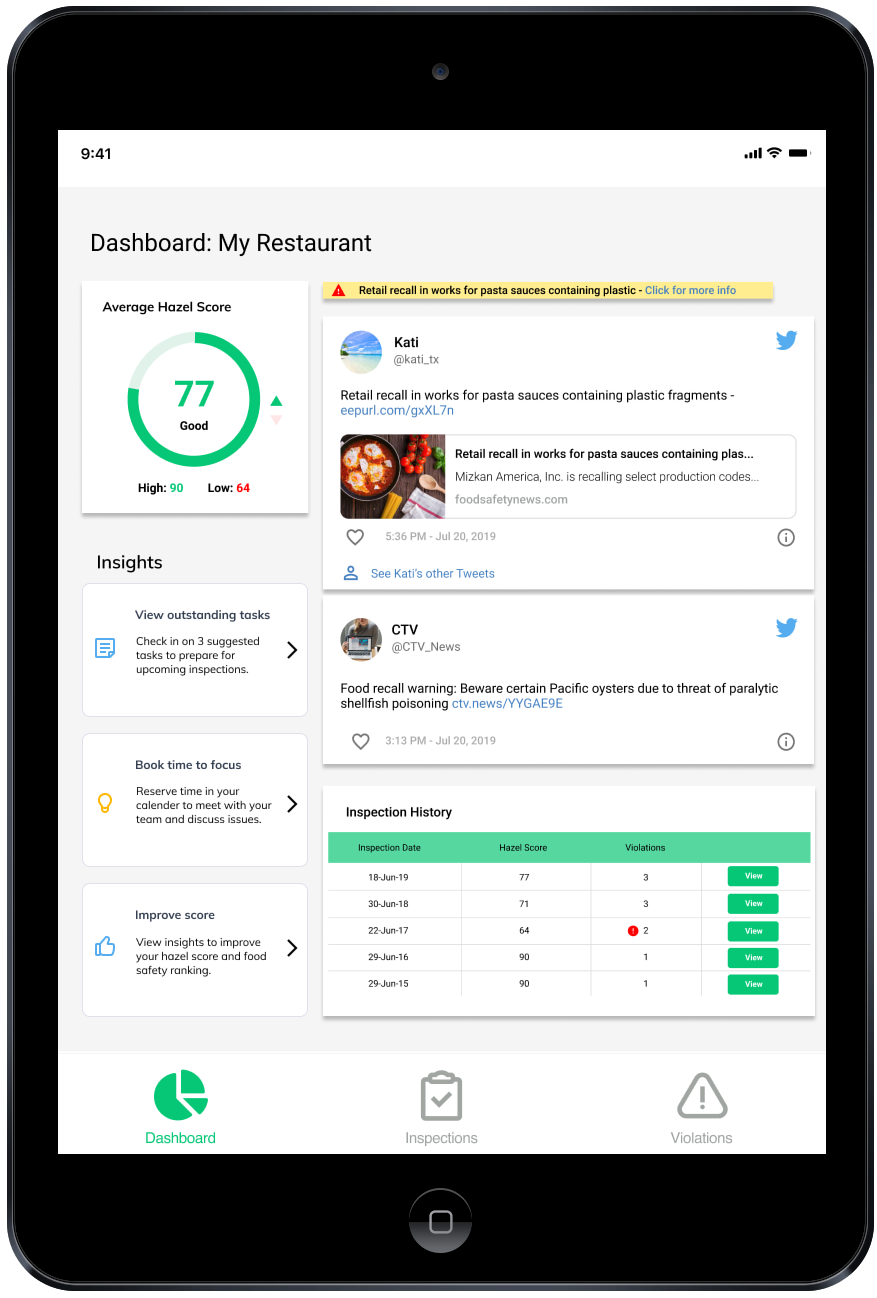
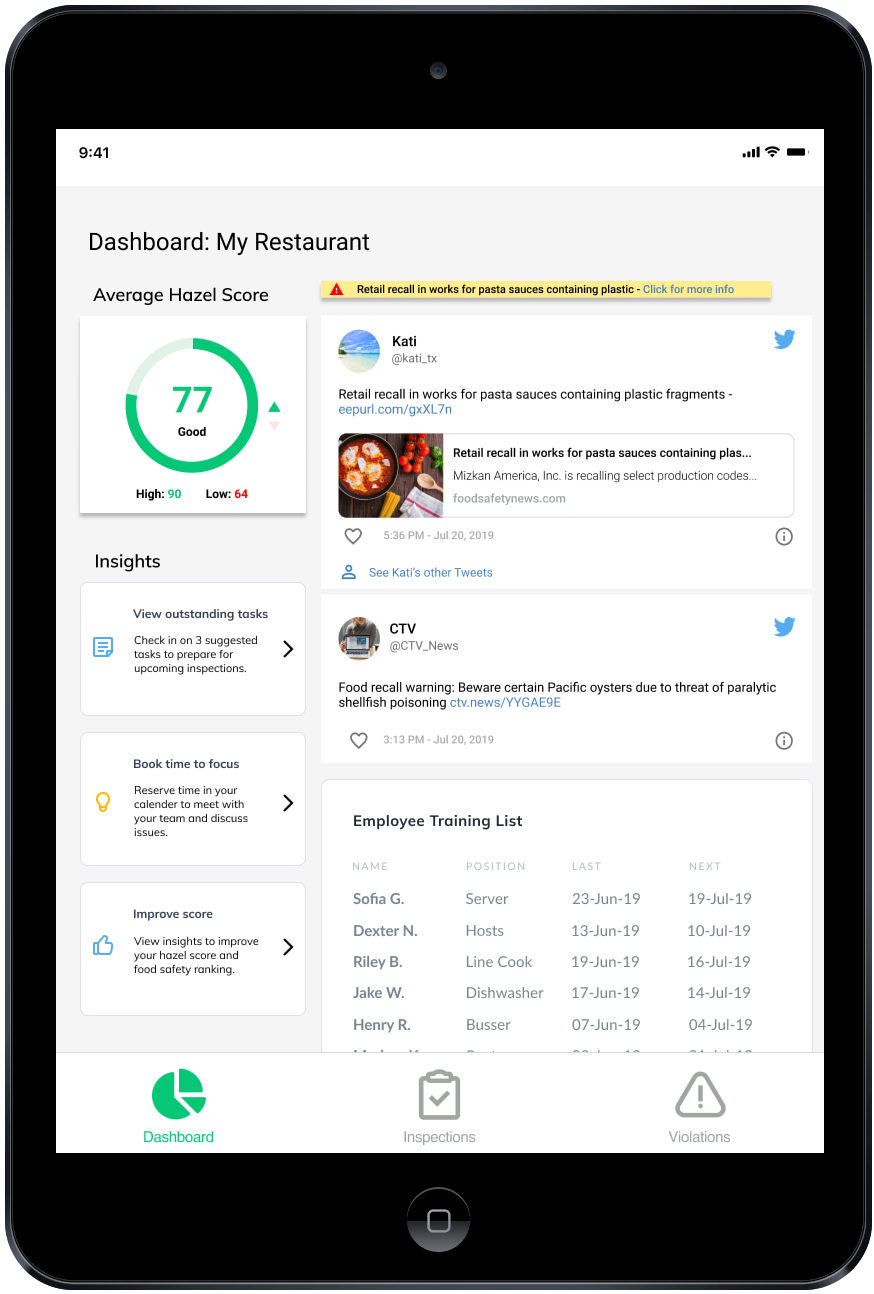
revamped hazel content

diff --git a/app-interface.html b/app-interface.html
@@ -56,7 +56,7 @@
         <p><b>My Role:</b> Interaction Designer</p>
         <p><b>Duration:</b> 3 Weeks</p>
         <p><b>Tools:</b> Figma, Illustrator, Pencil & Paper, Lucidchart, Zoom.us</p>
-        <p><b>Teammates:</b> Ben Soto (<b>Project Manager</b>), Victoria Hunter (<b>User Researcher</b>)</p>
+        <p><b>Teammates:</b> Ben Soto (Project Manager), Victoria Hunter (User Researcher)</p>
       </div>
     </div>
 
@@ -115,7 +115,7 @@
         </div>
       </div>
 
-    <div class="contentblock">
+    <!--<div class="contentblock">
       <div class="left">
         <h5>Competitive Analysis</h5>
       </div>
@@ -127,7 +127,7 @@
         <img class="mtop100" src="images/hazel_competitive_analysis.png" alt="">
       </div>
       </div>
-    </div>
+    </div>-->
 
   <section id="studio" class="maincontent">
     <div class="contentblock">
@@ -144,7 +144,7 @@
         </p>
         <br>
         <p>
-          <b>Decision Point:</b> In the time that we had, we decided to limit the product design ideation and iteration around a customizable default dashboard because it was the centralized screen where our target users can view all of their tailored information at-a-glance. To incentivize users to keep using the app, we proposed many design features in the dashboard screen which included a news feed, insights, alerts, notifications, gamification, etc.  
+          <b>Decision Point:</b> In the time that we had, we decided to limit the product design ideation and iteration around a customizable default dashboard because it was the centralized screen where our target users can view all of their tailored information at-a-glance. To incentivize users to keep using the app, we explored many design features in the dashboard screen such as feed, insights, gamification, etc.  
         </p>
       <div class="md-img">
         <img class="mtop50" src="images/hazel_design_studio.jpg" alt="">
@@ -161,7 +161,7 @@
       </div>
       <div class="right">
         <p>
-          Our team conducted a feature prioritization matrix to prioritize what to include in the dashboard screen. Due to time constraints, we could not cover all features, so <b>we decided to focus on features that were essential to our users needs that didn't require a high amount of effort</b>. This includes the <b>hazel score, health safety ranking, news feed, and ability to view health inspector/agency info</b>.
+          Our team conducted a feature prioritization matrix to prioritize what to include in the dashboard screen. Due to time constraints, we could not cover all features, so <b>we decided to focus on features that were essential to our users needs that didn't require a high amount of effort</b>. This included the <b>hazel score, inspecton history, news feed, and food safety rank</b>.
         </p>
       <div class="lrg-img">
         <img class="mtop50" src="images/prioritization_matrix.png" alt="">
@@ -191,7 +191,7 @@
       </div>
       <div class="right">
         <p>
-         Once the steps were mapped out, I designed the screens to show the content and actions available on each screen for prototype testing. Early concept sketches of our design consisted of pencil sketches & paper cutouts. <b>Because both our model users use iPads, designing around an iPad was the best direction forward</b>.
+          Early concept sketches of the dashboard screen consisted of pencil sketches & paper cutouts. I designed the dashboard view around a tablet device because both our model user uses iPads.
         </p>
       </div>
     </div>
@@ -202,10 +202,10 @@
       </div>
       <div class="right">
         <p>
-          I created the dashboard view based on the client's design system and mockups. <b>Because we wanted to motivate our target users to keep checking the app, I added the most important features such as average hazel score, food safety rank, inspection history, feed, and insights onto the dashboard</b> as the first things the users see.
+          I created the dashboard view based on the client's design system and mockups. <b>I added the most important features such as the hazel score, food safety rank, inspection history, and news feed onto the dashboard because we wanted to motivate our target users to check the app</b>.
         </p>
         <div class="sm-img">
-          <img class="mtop50" src="images/paper_default.jpg" alt="">
+          <img class="mtop50" src="images/paper_default.png" alt="">
         </div>
       </div>
     </div>
@@ -224,7 +224,7 @@
       <div class="lrg-img">
         <img class="mtop50" src="images/paper_onboarding.png" alt="">
       </div>
-    </section>-->
+    </section>
 
     <div class="contentblock">
       <div class="left">
@@ -240,7 +240,7 @@
        </div>
     </div>
 
-    <!--<div class="contentblock">
+    <div class="contentblock">
       <div class="left">
         <h3>Customize Modules</h3>
       </div>
@@ -279,16 +279,20 @@
         </p>
         <br>
         <p>
-          <b>Test Findings:</b> While restaurant owners stated that the app would be useful for tracking multiple restaurants, one user did not think there was much value for single businesses. She mentioned that because health safety inspections happen every six to twelve months, they would just work off of their latest report. Rules and restrictions change every year, so comparing a report from six months ago would be very different from a report a year ago. 
+          <b>Test Findings:</b> Testers stated because health safety inspections happen every six to twelve months, restaurant owners would just work off of the latest report. Rules and restrictions change every year, so there wouldn't be much value looking at inspection reports from six months or a year ago. 
         </p>
         <br>
         <p>
-           However, she acknowledged that knowing ahead of time when rules and regulations change could be useful so businesses wouldn't have to spend money on food they would have to throw out. One restaurant owner expressed interest in the human experience. She mentioned that during inspections, she felt she was being scrutinized. She would want to be taught how to succeed rather than being demeaned for not succeeding. 
+           However, participants acknowledged that knowing ahead of time about upcoming inspections and regulation changes would be helpful for businesses to stay ahead. One user in particular stated that inspections felt very demeaning. She wished inspections taught her how to be successful.  
+         </p>
+        <br>
+        <p>
+            One former restaurant owner mentioned that the key to successful inspections is making sure staff is properly trained and adhering to policies. He stated it can be an ongoing battle to make sure everyone is trained and that being able to track and manage who has been trained or not would be useful.
          </p>
       </div>
     </div>
       <div class="md-img">
-        <img class="mtop50" src="images/usability_testing.png" alt="">
+        <img class="mtop100" src="images/usability_testing.png" alt="">
       </div> 
   </section>
 
@@ -311,7 +315,7 @@
       </div>
       <div class="right">
         <p>
-          In the next iteration of the dashboard screen, <b>I added an alert feature so users would be notified if rules and restrictions became enforced like food recalls. I also expanded on the insights feature to include goals that users could track</b>.
+          In the next iteration of the dashboard screen, <b>I added an alert feature so users get notified of new rules, restrictions, and food recalls. I also expanded on the insights feature to include goals and tasks users could track. Lastly, I included an employee training list to help users track and check in with their employees</b>.
         </p>
       <div class="sm-img">
         <img class="mtop50" src="images/walkthrough_iteration.png" alt="">
@@ -334,7 +338,7 @@
       <div class="lrg-img">
         <img class="mtop50" src="images/onboarding_iteration.png" alt="">
       </div>  
-  </section>-->
+  </section>
 
 
 <section id="iteration" class="maincontent">
@@ -383,7 +387,7 @@
       <div class="lrg-img">
         <img class="mtop50" src="images/filter_iteration.png" alt="">
       </div>
-  </section>
+  </section>-->
 
 
   <!--<section id="prototype" class="mbot50">
@@ -406,16 +410,16 @@
     <section id="prototype" class="mbot50">
     <div class="contentblock">
       <div class="left">
-        <h5>Hi-fi Visual Design</h5>
+        <h5>Hi-fi Wireframes</h5>
       </div>
       <div class="right">
         <p>
-          In the final design, I created a few versions of the interface that included horizontal views to see how the app and visual elements would display from different orientations. The designs follow the same principles of the grid system that allows users to position modules anywhere on the dashboard. Color and visual elements were based off of the client's style guide.  
+          In the final prototype, I made changes to how information was presented to the user in order to make it more intuitive and less overwhelming. These changes included visual cues such as check marks for better validation and walkthroughs to make information easily more digestible. This was done based on testing feedback saying the app would be difficult to use for non-tech savvy users.    
         </p>
       </div>
     </div>
     <div class="lrg-img">
-      <img class="lrg-img" src="images/hazel_visual_design.png" alt="">
+      <img class="mtop50" src="images/hazel_final.png" alt="">
     </div>
   </section>
 
@@ -434,18 +438,18 @@
     </div>-->
 
 
-  <section id="branding" class="greyback">
+  <section id="learning" class="greyback">
     <div class="contentblock greyback">
       <div class="left">
         <h5>Learnings</h5>
       </div>
       <div class="right">
         <p>
-          <b>Research information early on and be vocal:</b> One of the biggest challenges of the project was working with limited amount of information. As my team and I had very little experience in food safety, we had to learn on the fly and rely on information from outside resources, interviews, and our client. It is also very important to be vocal to facilitate group understanding.
+          <b>Be vocal to facilitate group understanding:</b> One of the biggest challenges of the project was working with limited amount of information. As my team and I had very little experience in food safety, we had to learn on the fly and rely on information from outside resources, interviews, and our client. It is important to share everything you've learned with your team on a daily basis to make sure everyone is on the same page.
         </p>
         <br>
         <p>
-          <b>Anticipate behavior of target user:</b> Another challenge was that we had a very limited pool of target users to work with due to restaurant owners being generally busy people. As a result, we ended up with a lot of our testers that weren't representative of our target user. More feedback from our target users would have influenced my design direction early on.
+          <b>Get input and leverage resources early on:</b> Our team had a very limited pool of target users to work with due to restaurant owners being generally busy people. In retrospect, my team and I should've incentivized restaurant owners more or contacted our client early on to get more information. More feedback from our target users would have influenced my design decision early on.
         </p>
       </div>
     </div>

diff --git a/puget-sound.html b/puget-sound.html
@@ -56,7 +56,7 @@
           <p><b>My Role:</b> User Researcher</p>
           <p><b>Duration:</b> 2 Weeks</p>
           <p><b>Research Methods:</b> Google Survey, User Interviews, Usability Testing, Affinity Mapping, SUS Survey</p>
-          <p><b>Teammates:</b> Charlotte Hulseman (<b>Project Manager</b>), Leah Morales (<b>Interaction Designer</b>)</p>
+          <p><b>Teammates:</b> Charlotte Hulseman (Project Manager), Leah Morales (Interaction Designer)</p>
       </div>
     </div>
 
@@ -69,9 +69,6 @@
         <p>
            Puget Sound Trip Planner is a public transit app that allows users to plan trips, locate bus stops, and view arrival times within the Puget Sound region. However, with an <b>average score of 1.9 out of 5</b>, there was room for improvement in terms of design, features, and the overall experience. As the user researcher, <b>my goal was to find out what kind of problems the app was facing and then work with the team to propose changes that would improve the app's popularity, usability, and rating</b>. 
         </p>
-              <div class="lrg-img">
-        <img class="mtop50" src="images/puget_background.png" alt="">
-      </div>
       </div>
     </div>
 
@@ -148,7 +145,7 @@
         </p>
         <br>
         <p>
-          <b>Survey Findings:</b> From the fifteen responses I received, I discovered the majority of our users prioritized <b>reliability and real-time information</b> when choosing and using a transit app. In addition, I also found that <b>54% of my participants used public transportation only 5 days a week and 42% used buses to commute</b>. Based on these results, I was comfortable narrowing users for this redesign to King County residents who utilize public buses for commuting.  
+          <b>Survey Findings:</b> From the fifteen responses I received, I discovered the majority of our users prioritized reliability and real-time information when choosing and using a transit app. In addition, I also found that 54% of my participants used public transportation only 5 days a week and 42% used buses to commute. Based on these results, I was comfortable narrowing users for this redesign to King County residents who utilize public buses for commuting.  
         </p>
       <div class="lrg-img">
         <img class="mtop50" src="images/puget_chart.png" alt="">
@@ -175,7 +172,7 @@
         </p>
         </br>
         <p>
-          <b>Interview Findings:</b> All eleven interviewees used multiple transit apps such as Google Maps, Citymapper, Apple Maps, Moovit, One Bus Away, etc. None of the interviewees used Trip Planner. There were also <b>concerns from over half of the interviewees that information may not always be accurate</b>. Through affinity mapping and user synthesis, we discovered that several of the users that we interviewed were students who use transit apps to get to and from internships and classes. They have busy schedules and cannot afford to be late. As a result, <b>they require the most accurate and up-to-date information about their bus routes</b>.
+          <b>Interview Findings:</b> All eleven interviewees used multiple transit apps such as Google Maps, Citymapper, Apple Maps, Moovit, One Bus Away, etc. None of the interviewees used Trip Planner. There were also concerns from over half of the interviewees that information may not always be accurate. Through affinity mapping and user synthesis, we discovered that several of the users that we interviewed were students who use transit apps to get to and from internships and classes. They have busy schedules and cannot afford to be late. As a result, they require the most accurate and up-to-date information about their bus routes.
         </p>
         <div class="lrg-img">
           <img class="mtop50" src="images/puget_affinity.png" alt="">

diff --git a/index.html b/index.html
@@ -62,10 +62,10 @@
         <div class="work-link-wrapper"><img class="work-link-image" src="images/relief_hero.png" onmouseover="this.src='images/relief_hero_hover.png'" onmouseout="this.src='images/relief_hero.png'">
         </div>
       </a>
-      <div class="work-link work-link--50">
+      <!--<div class="work-link work-link--50">
         <div class="work-link-wrapper"><img class="work-link-image" src="images/pink_gorilla.png" onmouseover="this.src='images/pink_gorilla_hover.png'" onmouseout="this.src='images/pink_gorilla.png'">
         </div>
-      </div>
+      </div>-->
   </section>
 
   <section id="about" class="about">

diff --git a/relief-link.html b/relief-link.html
@@ -54,7 +54,7 @@
         <p><b>My Role:</b> UX Designer</p>
         <p><b>Duration:</b> 12 Hours</p>
         <p><b>Tools:</b> XD, Photoshop, Pencil & Paper</p>
-        <p><b>Teammates:</b> Alexis Overell, Anthony Riojas, Michael Dudley, Reid Miller</p>
+        <p><b>Teammates:</b> Alexis Overell (Designer), Anthony Riojas, Michael Dudley, Reid Miller (Developers)</p>
       </div>
     </div>
 
